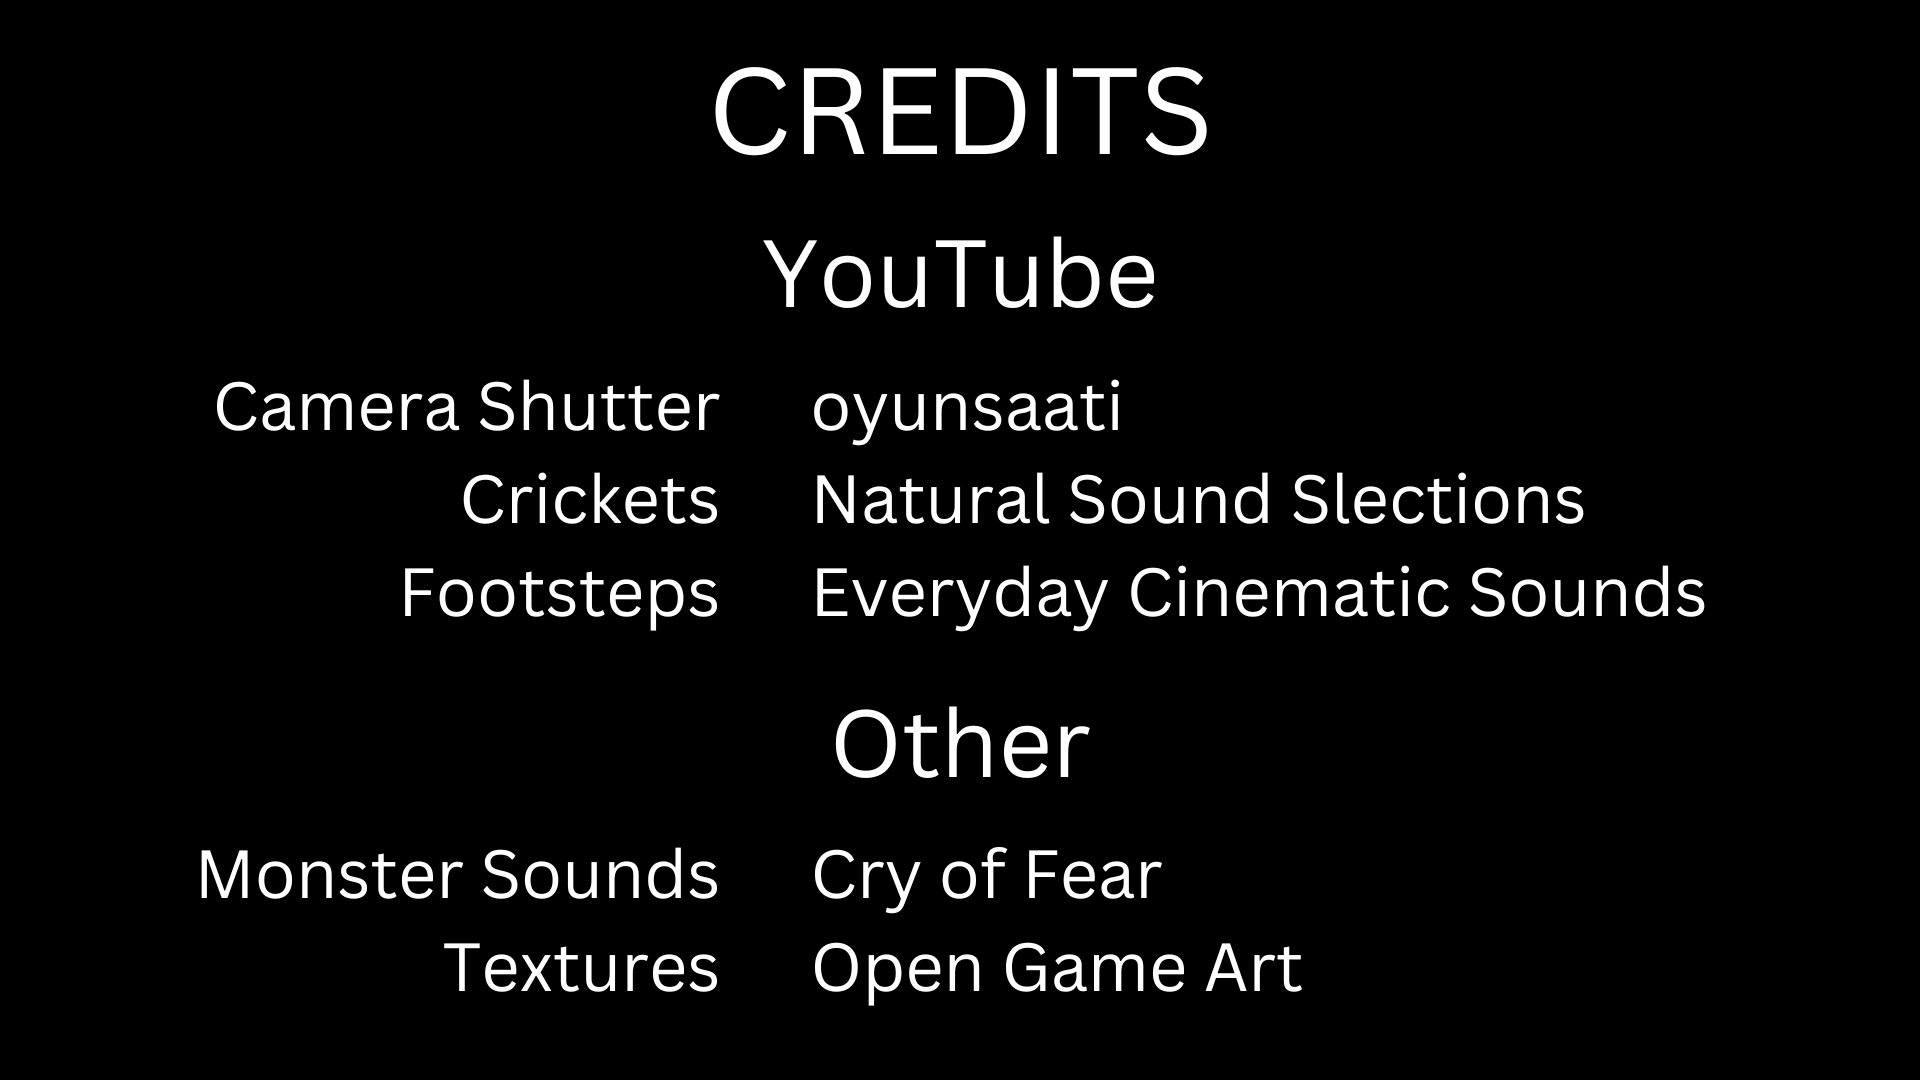
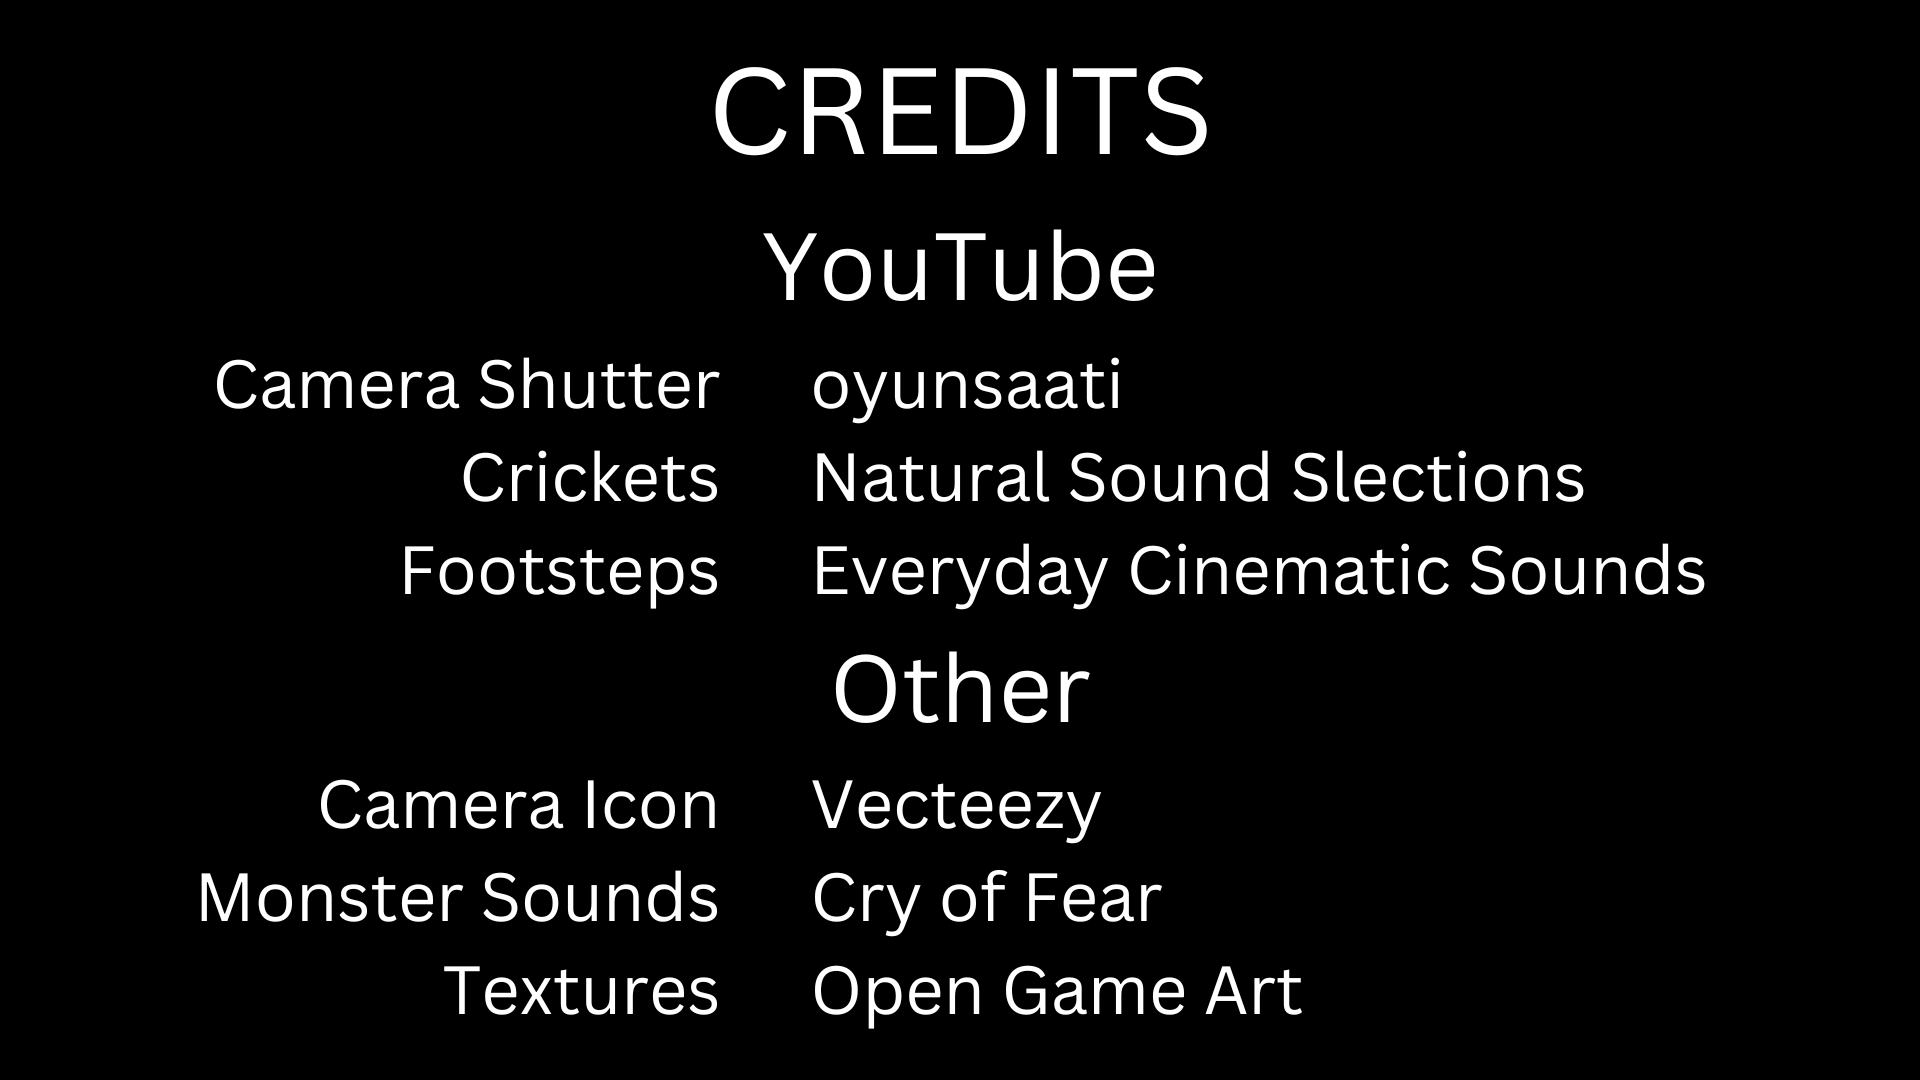
Update

diff --git a/Assets/Scripts/Items/CameraBarToggle.cs b/Assets/Scripts/Items/CameraBarToggle.cs
@@ -1,0 +1,41 @@
+using System.Collections;
+using System.Collections.Generic;
+using UnityEngine;
+using UnityEngine.UI;
+
+public class CameraBarToggle : MonoBehaviour
+{
+    float DURATION = 1.8f;
+
+    RectTransform barTransform;
+    RawImage cameraIcon;
+
+    float maxWidth;
+    float curProgress;
+
+    void Awake()
+    {
+        barTransform = transform.Find("Bar").gameObject.GetComponent<RectTransform>();
+        cameraIcon = GetComponentInChildren<RawImage>();
+
+        maxWidth = barTransform.sizeDelta.x;
+    }
+
+    void Update()
+    {
+        curProgress -= 1 * Time.deltaTime / DURATION;
+        barTransform.sizeDelta = new Vector2(curProgress * maxWidth, barTransform.sizeDelta.y);
+        cameraIcon.color = new Color(1, 1, 1, curProgress);
+
+        if(curProgress <= 0)
+        {
+            gameObject.SetActive(false);
+        }
+    }
+
+    void OnEnable()
+    {
+        barTransform.sizeDelta = new Vector2(maxWidth, barTransform.sizeDelta.y);
+        curProgress = 1;
+    }
+}

diff --git a/Assets/Scripts/Items/CameraBehaviour.cs b/Assets/Scripts/Items/CameraBehaviour.cs
@@ -20,6 +20,8 @@ public class CameraBehaviour : MonoBehaviour
     float flashRange = 20;
     float flashCooldown = 1f;
 
+    [SerializeField] GameObject cameraBar;
+
     AudioSource sfx;
 
     [Header("Player")]
@@ -77,6 +79,7 @@ public class CameraBehaviour : MonoBehaviour
     {
         sfx.Play();
         flashing = true;
+        cameraBar.SetActive(true);
         flash.intensity = flashIntensity;
 
         yield return new WaitForSeconds(0.1f);

diff --git a/Assets/Scripts/Enemy/EnemyBehaviour.cs b/Assets/Scripts/Enemy/EnemyBehaviour.cs
@@ -43,7 +43,8 @@ public class EnemyBehaviour : MonoBehaviour
     void Awake()
     {
         navAgent= GetComponent<NavMeshAgent>();
-        state = EnemyState.Follow;
+        state = EnemyState.Hidden;
+        navAgent.speed = 0;
         detectionHitbox.radius = chaseRange * (1/transform.localScale.x);
         transform.position = player.transform.position + (Vector3.back * 300);
 
